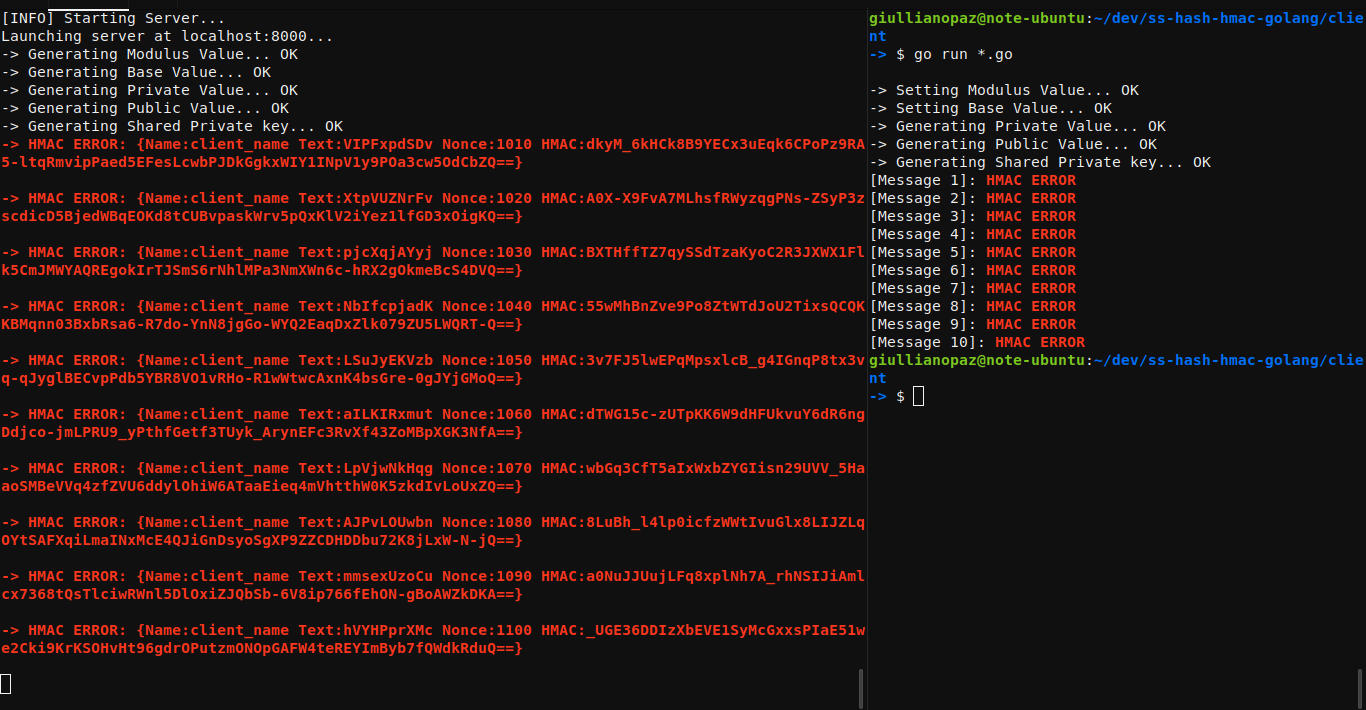
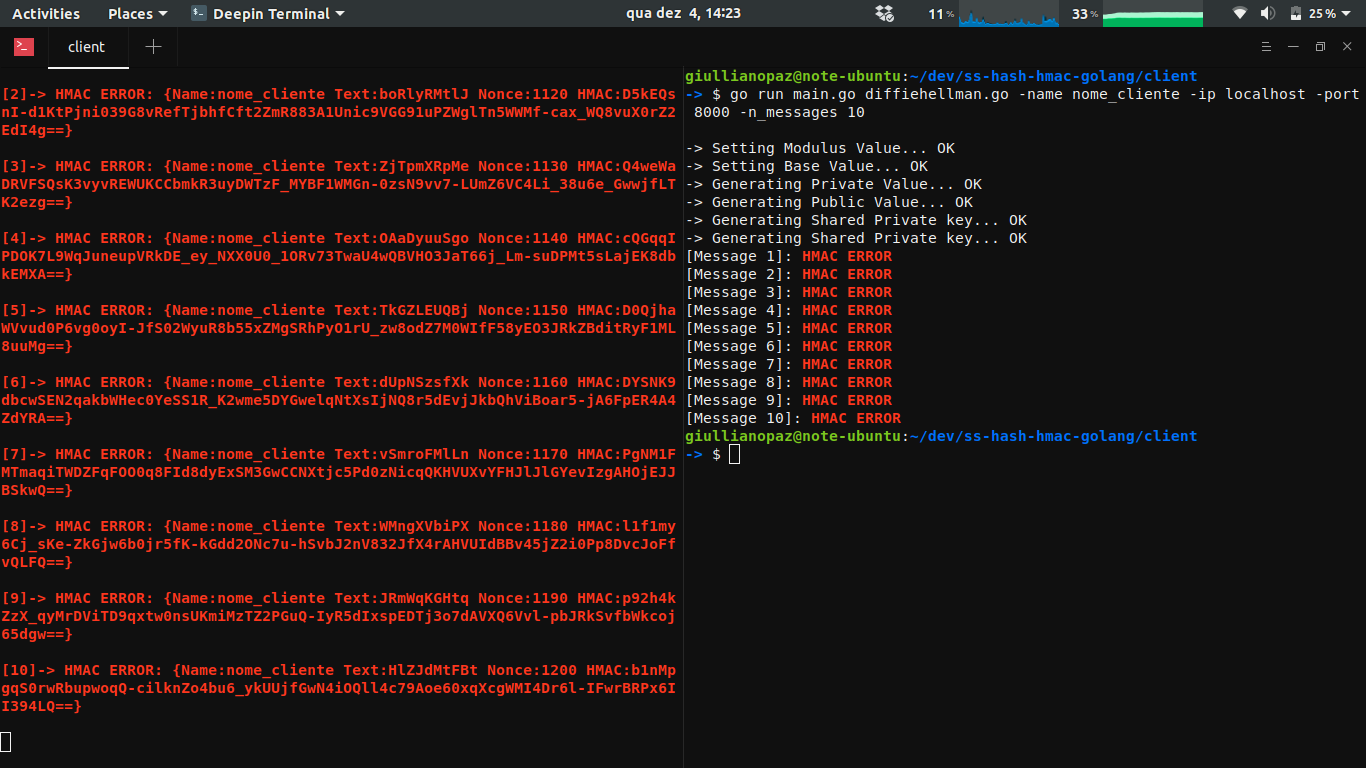
Adição do contador de mensagens no servidor

Changed region(s): [[0.0, 0.0, 1.0, 0.9296], [0.9839, 0.9296, 1.0, 1.0], [0.9224, 0.093, 0.9531, 0.1239]]

diff --git a/server/main.go b/server/main.go
@@ -17,11 +17,11 @@ import (
 
 const (
 	// OKCOLOR : Para mostrar OK verde
-	OKCOLOR = "\033[1;32m-> OK:  %+v\033[0m\n\n"
+	OKCOLOR = "\033[1;32m[%d]-> OK:  %+v\033[0m\n\n"
 	// ERRORCOLOR : Para mostrar HMAC ERROR vermelho
-	ERRORCOLOR = "\033[1;31m-> HMAC ERROR: %+v\033[0m\n\n"
+	ERRORCOLOR = "\033[1;31m[%d]-> HMAC ERROR: %+v\033[0m\n\n"
 	// NONCECOLOR : Para mostrar NONCE ERROR vermelho
-	NONCECOLOR = "\033[1;31m-> NONCE ERROR: %+v\033[0m\n\n"
+	NONCECOLOR = "\033[1;31m[%d]-> NONCE ERROR: %+v\033[0m\n\n"
 )
 
 // CEILINGVALUE : Valor máximo para ser usado como `pModulusValue`
@@ -89,6 +89,7 @@ func main() {
 		// Roda concorrentemente cada nova conexão
 		go func(c net.Conn) {
 			var dh DiffieHellman
+			var count int = 0
 			for {
 				msg, err := bufio.NewReader(c).ReadString('\n')
 				Check(err, "Unable to get response from client!")
@@ -114,16 +115,18 @@ func main() {
 					dh.GenerateSharedPrivateKey(hs.Public)
 
 				} else if msg == "END\n" {
+					count = 0
 					c.Close()
 					return
 				} else {
+					count++
 					var message Message
 					err := json.Unmarshal([]byte(msg), &message)
 					Check(err, "Mensage parse error")
 					// output message received
 
 					if message.Nonce <= nonce {
-						fmt.Printf(NONCECOLOR, message)
+						fmt.Printf(NONCECOLOR, count, message)
 						_, err := c.Write([]byte("NONCE ERROR" + "\n"))
 						Check(err, "Unable to send NONCE ERROR to client")
 						nonce += 10
@@ -133,11 +136,11 @@ func main() {
 					}
 
 					if GetHMAC(dh.sharedPrivateKey, message.Name, message.Text, nonce) == message.HMAC {
-						fmt.Printf(OKCOLOR, message)
+						fmt.Printf(OKCOLOR, count, message)
 						_, err := c.Write([]byte("OK" + "\n"))
 						Check(err, "Unable to send OK to client")
 					} else {
-						fmt.Printf(ERRORCOLOR, message)
+						fmt.Printf(ERRORCOLOR, count, message)
 						_, err := c.Write([]byte("HMAC ERROR" + "\n"))
 						Check(err, "Unable to send HMAC ERROR to client")
 					}

diff --git a/README.md b/README.md
@@ -17,5 +17,5 @@ Acesse o diretório `client/`.
 
 Para testar os erros de `HMAC`, basta descomentar a linha 124 em `client/main.go`.
 
-Para testar os erros de `Nonce`, basta comentar a linha 133 em `client/main.go`.
+Para testar os erros de `Nonce`, basta comentar a linha 134 em `client/main.go`.
 
